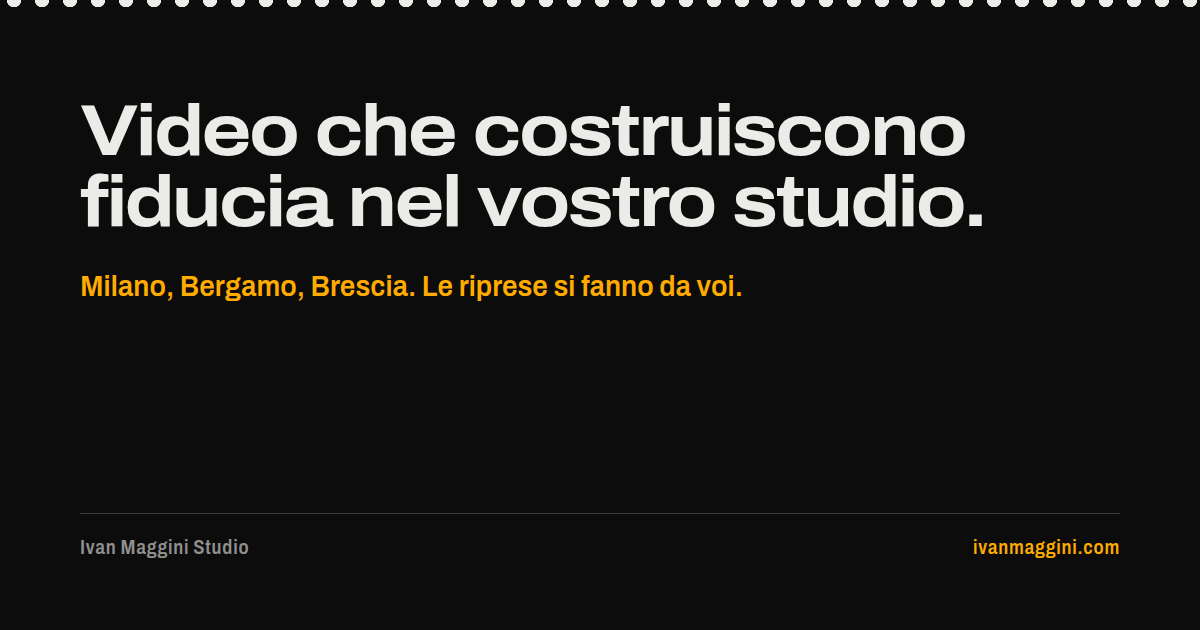
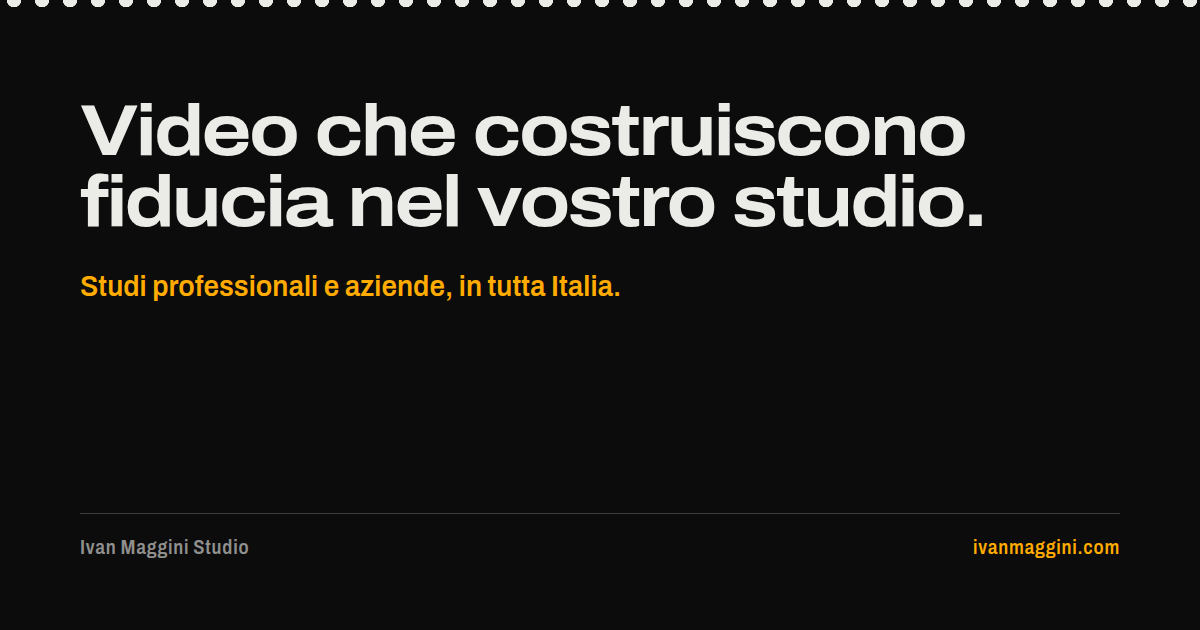
Area di lavoro nazionale, e le aziende fra i destinatari
L'area non è più un confine. Studi professionali e aziende in tutta Italia,
riprese nella sede del cliente, sessioni organizzate su misura. Milano,
Bergamo e Brescia restano in due punti soltanto, e in entrambi come esempio
dichiarato: "i posti dove capita più spesso, non un confine".

Cambia di conseguenza il titolo della pagina studio, la sua descrizione,
l'anteprima social e il testo alternativo dell'immagine, la testata, la
domanda sulla zona, e in home la descrizione, la riga sotto al nome, il
paragrafo su di me e la card del servizio.

Nei dati strutturati `areaServed` passa da tre AdministrativeArea a un
Country: dichiarare tre province a un motore di ricerca significa dirgli di
non proporre il servizio altrove, ed era esattamente il confine da togliere.
La sede legale in Lurano (BG) non è stata toccata: è un'altra cosa e sta
altrove, nel piede e nell'informativa.

Le aziende entrano dove i destinatari erano già elencati, senza toccare la
struttura della pagina: i titoli delle due card diventano "Studi e aziende
che lavorano con le persone" e "Studi e aziende che lavorano su progetti", le
righe di esempio sotto ai titoli si allargano a cliniche, attività locali e
imprese, e la riga di credenziale dice "negli studi e nelle aziende".

Rigenerate le due anteprime social che nominavano l'area o i soli studi.

Claude-Session: https://claude.ai/code/session_01ERqcTN9hjVpHegBJ9LPghD

Changed region(s): [[0.0617, 0.4222, 0.6167, 0.4825]]

diff --git a/studio.html b/studio.html
@@ -4,21 +4,21 @@
 <meta charset="UTF-8">
 <meta name="viewport" content="width=device-width, initial-scale=1">
 <meta name="format-detection" content="telephone=no">
-<title>Video per studi professionali tra Milano, Bergamo e Brescia</title>
-<meta name="description" content="Produzione di video brevi per dentisti, avvocati, notai, commercialisti e architetti. Strategia, riprese e pubblicazione gestite da un'unica persona. Consulenza gratuita.">
+<title>Video per studi professionali e aziende in tutta Italia</title>
+<meta name="description" content="Video brevi per studi professionali e aziende in tutta Italia. Riprese nella vostra sede, tutto il resto gestito da un'unica persona. Consulenza gratuita.">
 <link rel="canonical" href="https://ivanmaggini.com/studio">
 <meta name="theme-color" content="#ebebe8">
 
 <meta property="og:type" content="website">
 <meta property="og:site_name" content="Ivan Maggini Studio">
-<meta property="og:title" content="Video per studi professionali tra Milano, Bergamo e Brescia | Ivan Maggini Studio">
+<meta property="og:title" content="Video per studi professionali e aziende in tutta Italia | Ivan Maggini Studio">
 <meta property="og:description" content="Strategia, riprese, montaggio e pubblicazione gestiti da un'unica persona. Si parte da una consulenza gratuita.">
 <meta property="og:url" content="https://ivanmaggini.com/studio">
 <meta property="og:locale" content="it_IT">
 <meta property="og:image" content="https://ivanmaggini.com/assets/og/og-studio.png">
 <meta property="og:image:width" content="1200">
 <meta property="og:image:height" content="630">
-<meta property="og:image:alt" content="Ivan Maggini Studio: video che costruiscono fiducia nel vostro studio">
+<meta property="og:image:alt" content="Ivan Maggini Studio: video per studi professionali e aziende, in tutta Italia">
 <meta name="twitter:card" content="summary_large_image">
 
 <link rel="preconnect" href="https://fonts.googleapis.com">
@@ -32,15 +32,11 @@
   "@context": "https://schema.org",
   "@type": "ProfessionalService",
   "name": "Ivan Maggini Studio",
-  "description": "Produzione di video brevi per studi professionali tra Milano, Bergamo e Brescia: dentisti, avvocati, notai, commercialisti, architetti e ingegneri. Le riprese si fanno nello studio del cliente.",
+  "description": "Produzione di video brevi per studi professionali e aziende in tutta Italia: dentisti, avvocati, notai, commercialisti, architetti, ingegneri e imprese. Le riprese si fanno nella sede del cliente e le sessioni si organizzano su misura.",
   "url": "https://ivanmaggini.com/studio",
   "email": "general@ivanmaggini.com",
   "founder": { "@type": "Person", "name": "Ivan Maggini" },
-  "areaServed": [
-    { "@type": "AdministrativeArea", "name": "Milano" },
-    { "@type": "AdministrativeArea", "name": "Bergamo" },
-    { "@type": "AdministrativeArea", "name": "Brescia" }
-  ]
+  "areaServed": { "@type": "Country", "name": "Italia" }
 }
 </script>
 </head>
@@ -73,13 +69,14 @@
         <span><span style="--i:2">Prima che serviate.</span></span>
       </h1>
       <p class="lede" style="margin-top:var(--s4)">
-        Produzione di video brevi per studi professionali tra Milano, Bergamo
-        e Brescia. Contenuti che spiegano quello che fate, pubblicati con
+        Produzione di video brevi per studi professionali e aziende, in tutta
+        Italia. Contenuti che spiegano quello che fate, pubblicati con
         costanza, gestiti da un'unica persona dall'inizio alla fine.
       </p>
-      <p class="small mute" style="margin-top:var(--s3);max-width:54ch">
-        Le riprese si fanno nel vostro studio: mi sposto io, con tutta
-        l'attrezzatura. Voi non dovete andare da nessuna parte.
+      <p class="small mute" style="margin-top:var(--s3);max-width:56ch">
+        Le riprese si fanno nella vostra sede: mi sposto io, con tutta
+        l'attrezzatura, e le sessioni si organizzano su misura. Milano,
+        Bergamo e Brescia sono i posti dove capita più spesso, non un confine.
       </p>
       <div class="btn-row">
         <a class="btn" href="mailto:general@ivanmaggini.com?subject=Consulenza%20gratuita">Prenota una consulenza gratuita</a>
@@ -100,8 +97,8 @@
       <div class="body">
         <div class="pair">
           <div class="card">
-            <h2>Studi che lavorano con le persone</h2>
-            <span class="who">dentisti, avvocati, notai, commercialisti</span>
+            <h2>Studi e aziende che lavorano con le persone</h2>
+            <span class="who">dentisti, avvocati, notai, commercialisti, cliniche, attività locali</span>
             <p>
               Non serve diventare famosi. Serve che le persone della vostra zona
               vi abbiano già visto e ascoltato prima di avere bisogno di voi.
@@ -112,8 +109,8 @@
             <a class="btn ghost" href="mailto:general@ivanmaggini.com?subject=Consulenza%20gratuita">Parliamone</a>
           </div>
           <div class="card">
-            <h2>Studi che lavorano su progetti</h2>
-            <span class="who">architetti, ingegneri, design</span>
+            <h2>Studi e aziende che lavorano su progetti</h2>
+            <span class="who">architetti, ingegneri, studi di design, imprese</span>
             <p>
               I vostri progetti parlano già per voi, ma solo a chi li visita. Un
               video che racconta come nasce un lavoro, con la voce di chi l'ha
@@ -226,9 +223,9 @@
         </p>
         <div class="pull" style="margin-top:var(--s5)">
           <p>
-            Porto agli studi professionali lo stesso metodo con cui ho costruito
-            una community di 30.000 persone: contenuti che spiegano e creano
-            fiducia, non pubblicità patinata.
+            Porto negli studi e nelle aziende lo stesso metodo con cui ho
+            costruito una community di 30.000 persone: contenuti che spiegano e
+            creano fiducia, non pubblicità patinata.
           </p>
         </div>
       </div>
@@ -340,12 +337,11 @@
           <details>
             <summary>Dove lavorate?</summary>
             <div><div><p>
-              Milano, Bergamo e Brescia. Le riprese si fanno nel vostro studio:
-              mi sposto io, con tutta l'attrezzatura, e voi non dovete
-              organizzare niente. Fuori da queste tre province se ne può
-              parlare caso per caso, in base a quanto lavoro c'è e a come si
-              organizza la trasferta. Le sessioni si fissano sulle agende di
-              entrambi, con la massima flessibilità su giorni e orari.
+              In tutta Italia. Le riprese si fanno nella vostra sede: mi sposto
+              io, con tutta l'attrezzatura, e voi non dovete organizzare
+              niente. Milano, Bergamo e Brescia sono i posti dove capita più
+              spesso, ma non sono un confine: le sessioni si organizzano su
+              misura, sulle agende di entrambi e sulla distanza da coprire.
             </p></div></div>
           </details>
           <details>

diff --git a/index.html b/index.html
@@ -5,7 +5,7 @@
 <meta name="viewport" content="width=device-width, initial-scale=1">
 <meta name="format-detection" content="telephone=no">
 <title>Ivan Maggini, founder di Biglietto</title>
-<meta name="description" content="Sto costruendo Biglietto, un prodotto per chi viaggia. Con Ivan Maggini Studio giro video per studi professionali tra Milano, Bergamo e Brescia.">
+<meta name="description" content="Sto costruendo Biglietto, un prodotto per chi viaggia. Con Ivan Maggini Studio giro video per studi professionali e aziende in tutta Italia.">
 <link rel="canonical" href="https://ivanmaggini.com/">
 <link rel="alternate" hreflang="it" href="https://ivanmaggini.com/">
 <link rel="alternate" hreflang="en" href="https://ivanmaggini.com/en/">
@@ -21,7 +21,7 @@
 <meta property="og:image" content="https://ivanmaggini.com/assets/og/og-home.png">
 <meta property="og:image:width" content="1200">
 <meta property="og:image:height" content="630">
-<meta property="og:image:alt" content="Ivan Maggini: sto costruendo Biglietto e giro i video degli studi professionali">
+<meta property="og:image:alt" content="Ivan Maggini: sto costruendo Biglietto e giro i video di studi professionali e aziende">
 <meta name="twitter:card" content="summary_large_image">
 
 <link rel="preconnect" href="https://fonts.googleapis.com">
@@ -72,9 +72,8 @@
       </h1>
       <p class="lede">
         Ho 19 anni. Sto costruendo Biglietto, un prodotto per chi viaggia, e
-        giro i video degli studi professionali tra Milano, Bergamo e Brescia.
-        Racconto le due
-        cose mentre succedono, anche quando vanno male.
+        giro i video degli studi professionali e delle aziende, in tutta
+        Italia. Racconto le due cose mentre succedono, anche quando vanno male.
       </p>
     </div>
   </section>
@@ -87,8 +86,8 @@
         <p>
           Faccio due cose. Sto costruendo Biglietto, un prodotto per chi
           viaggia. E con Ivan Maggini Studio produco video per studi
-          professionali tra Milano, Bergamo e Brescia: vado io sul posto a
-          girare, poi monto e pubblico.
+          professionali e aziende in tutta Italia: vado io sul posto a girare,
+          poi monto e pubblico.
         </p>
         <p>
           Sotto ci sta una cosa sola. Ho passato gli ultimi anni a raccontare
@@ -125,11 +124,11 @@
           </div>
           <div class="card">
             <h2>Ivan Maggini Studio</h2>
-            <span class="who">video per studi professionali</span>
+            <span class="who">video per studi professionali e aziende</span>
             <p>
               Video brevi per dentisti, avvocati, notai, commercialisti,
-              architetti e ingegneri tra Milano, Bergamo e Brescia. Le riprese
-              si fanno nel vostro studio: vado io, e poi monto e pubblico io.
+              architetti, ingegneri e imprese, in tutta Italia. Le riprese si
+              fanno nella vostra sede: vado io, e poi monto e pubblico io.
             </p>
             <a class="btn ghost" href="/studio">Come funziona</a>
           </div>

diff --git a/README.md b/README.md
@@ -1,8 +1,8 @@
 # ivanmaggini.com
 
 Sito personale di Ivan Maggini. Due cose in un posto solo: chi è e cosa sta
-costruendo (Biglietto), e il servizio video per studi professionali in
-Milano, Bergamo e Brescia (Ivan Maggini Studio).
+costruendo (Biglietto), e il servizio video per studi professionali e
+aziende in tutta Italia (Ivan Maggini Studio).
 
 Sono file statici: HTML, un foglio di stile, ottanta righe di JavaScript.
 Nessun build step, nessuna dipendenza, nessun framework. Si apre `index.html`
@@ -22,8 +22,8 @@ e c'è tutto.
 | `/en/privacy`    | `en/privacy.html`    | Informativa privacy in inglese          |
 
 Biglietto ha una pagina propria in entrambe le lingue. La sezione Studio
-esiste solo in italiano: si rivolge a studi professionali di Milano, Bergamo
-e Brescia. I vecchi
+esiste solo in italiano: si rivolge a studi professionali e aziende in
+Italia. I vecchi
 indirizzi `/startup` e `/en/startup` reindirizzano alle pagine Biglietto.
 
 ## Il sistema visivo
